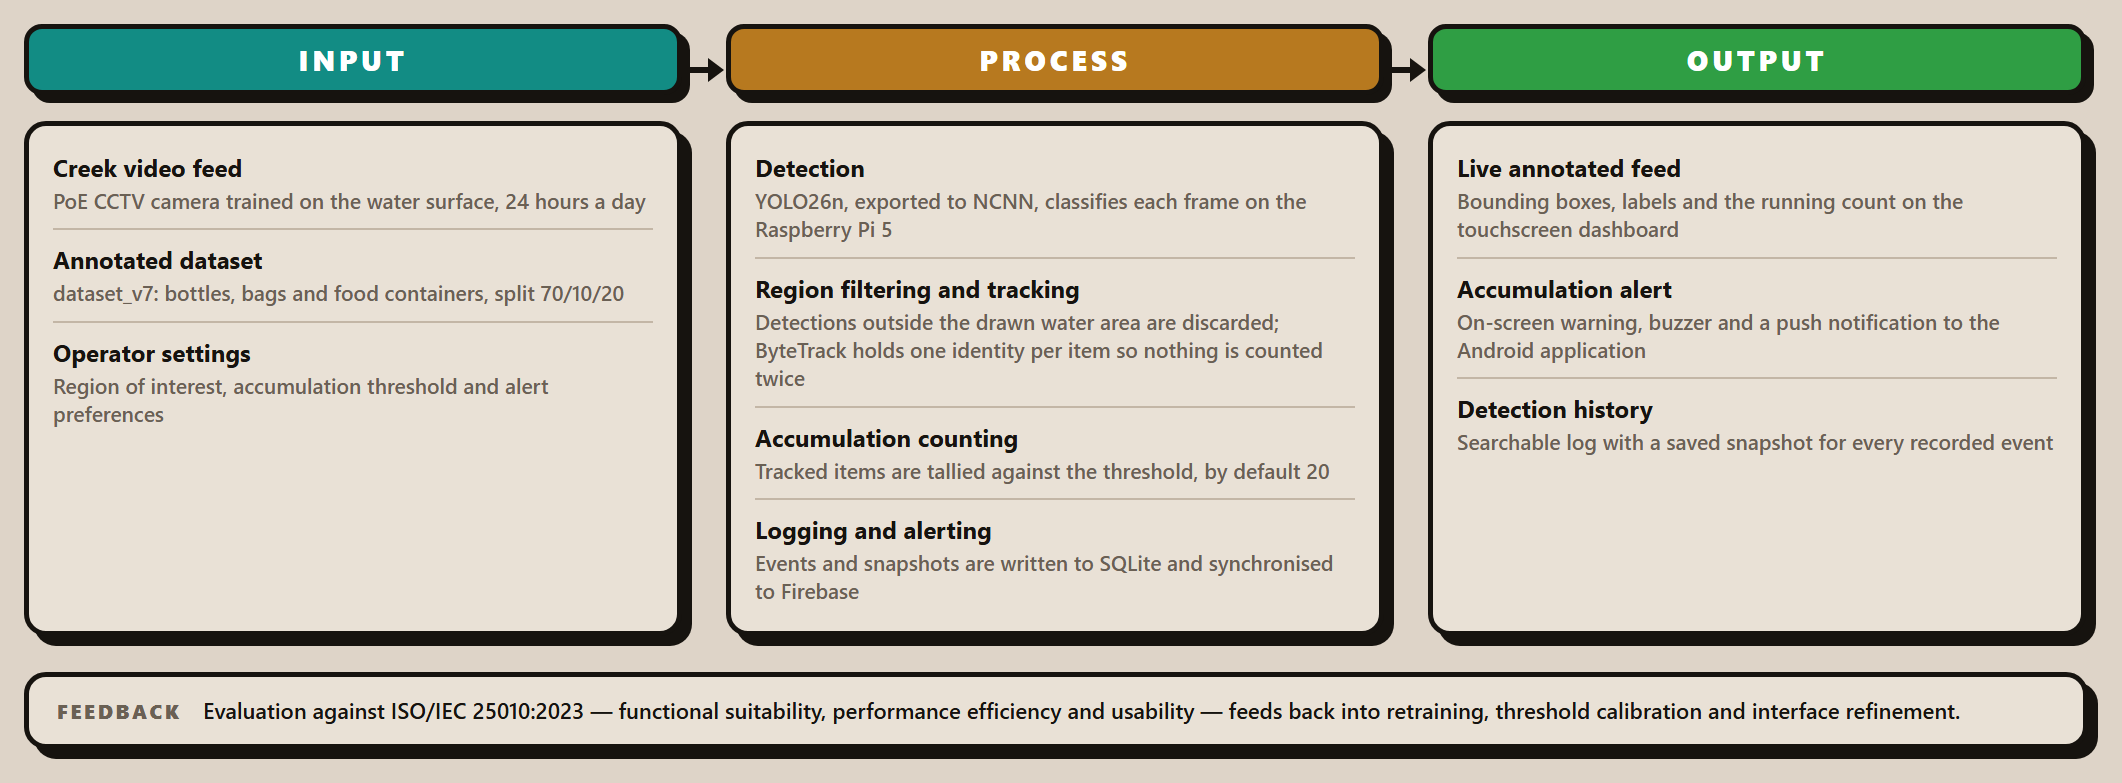
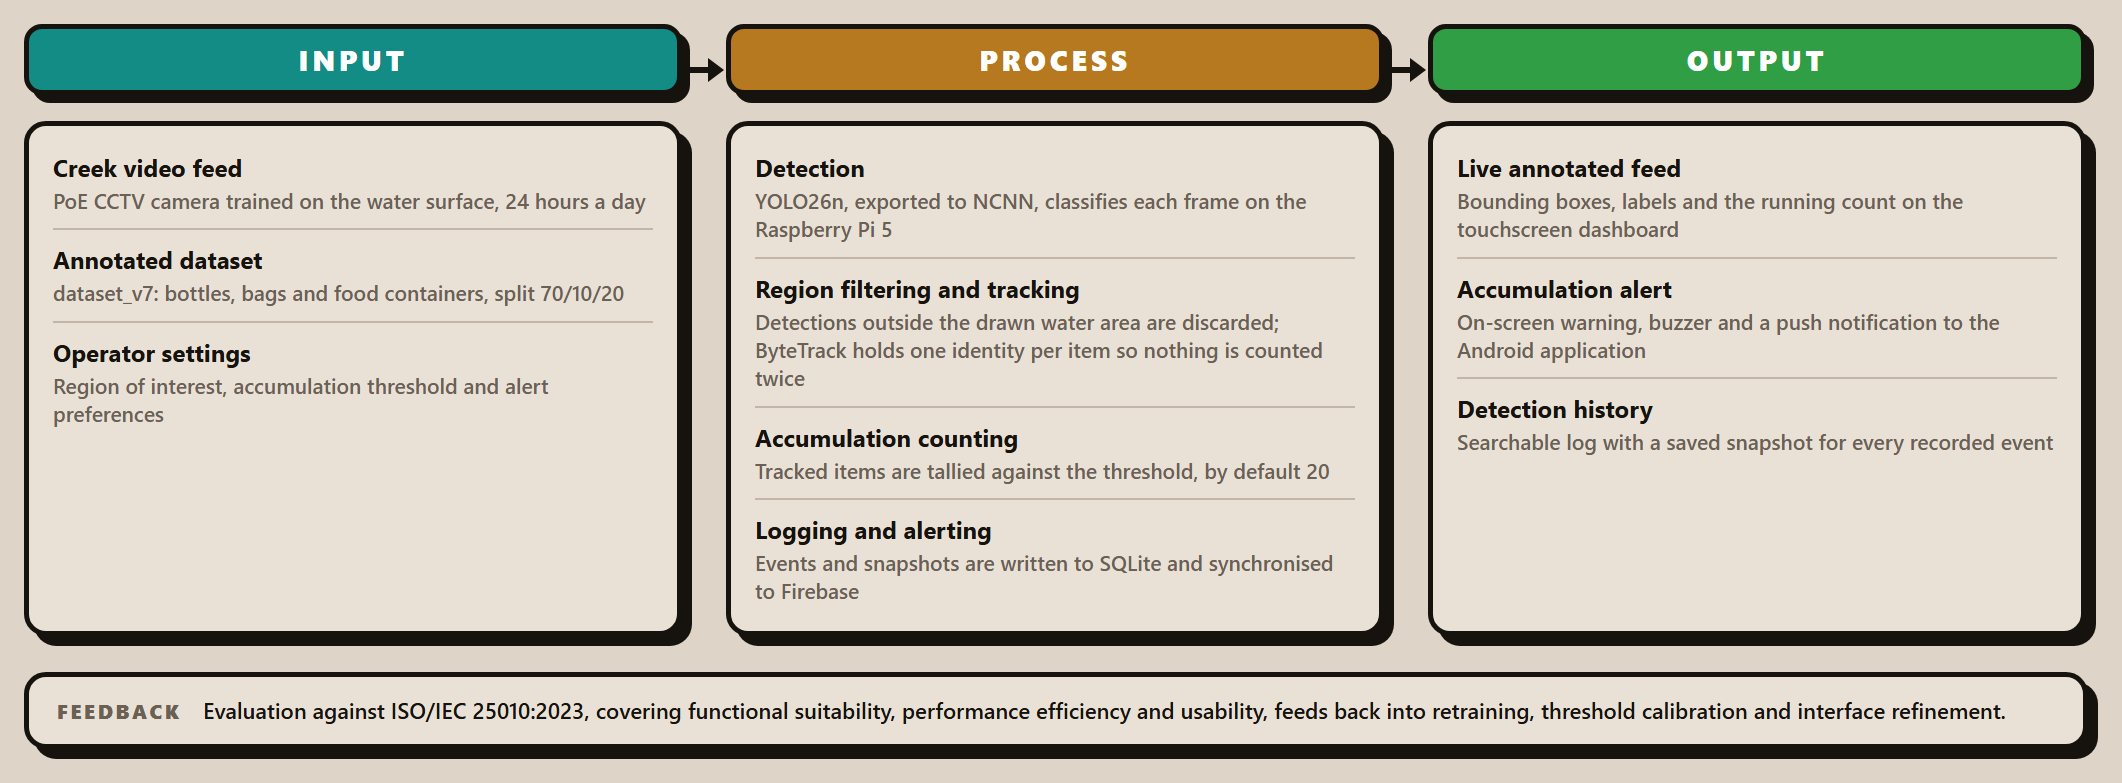
update

Changed region(s): [[0.2799, 0.8889, 0.9642, 0.9195]]

diff --git a/Documents/Figures/GarbageGuard_Conceptual_Framework.html b/Documents/Figures/GarbageGuard_Conceptual_Framework.html
@@ -39,5 +39,5 @@ body{width:1100px;padding:34px;color:#16130F;
  stroke="#16130F" stroke-width="3"/><path d="M13,4 L21,10 L13,16"
  fill="#16130F"/></svg></div>
 </div>
-<div class="fb"><div class="fbk">FEEDBACK</div><div class="fbv">Evaluation against ISO/IEC 25010:2023 — functional suitability, performance efficiency and usability — feeds back into retraining, threshold calibration and interface refinement.</div></div>
+<div class="fb"><div class="fbk">FEEDBACK</div><div class="fbv">Evaluation against ISO/IEC 25010:2023, covering functional suitability, performance efficiency and usability, feeds back into retraining, threshold calibration and interface refinement.</div></div>
 </body></html>
